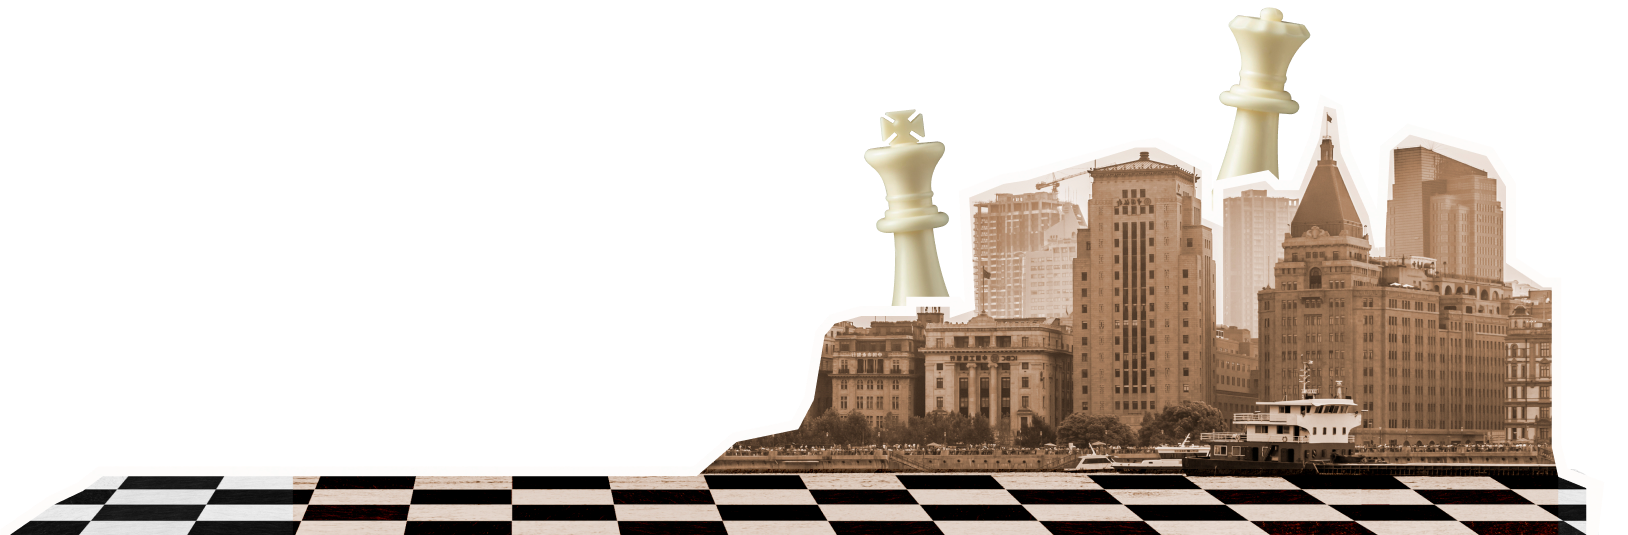
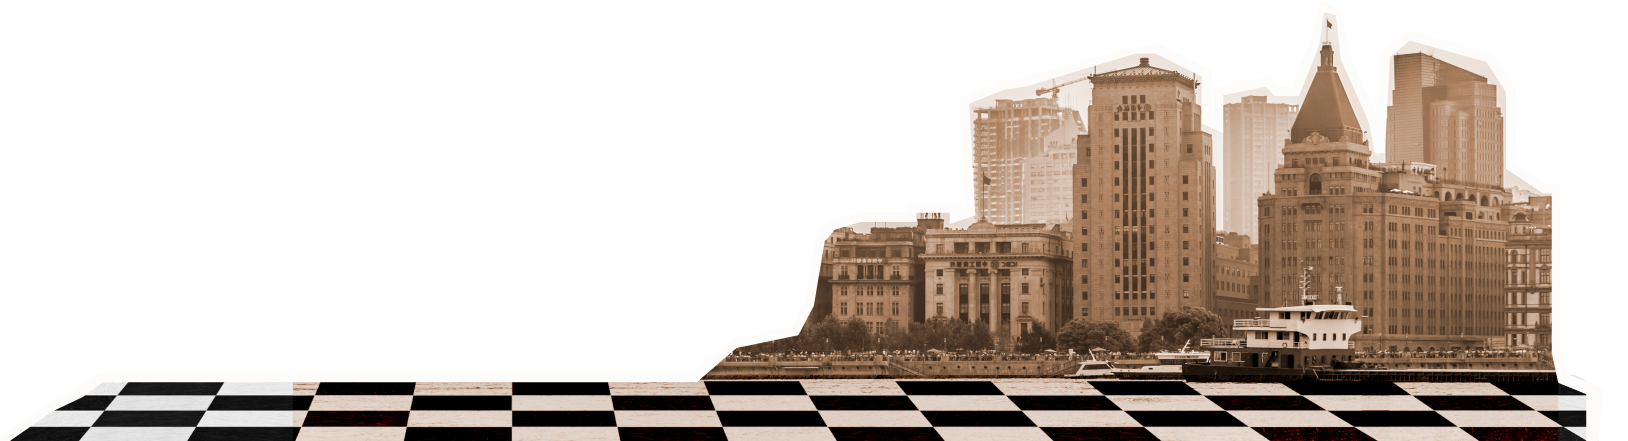
Break bg into more images and animate king and queen

Changed region(s): [[0.0, 0.0, 0.9828, 1.0]]

diff --git a/styles.css b/styles.css
@@ -28,7 +28,7 @@ h1 {
 
 .section-1 .sun {
   position: absolute;
-  z-index: 1;
+  z-index: 0;
   top: -64px;
   left: 50%;
   animation: rotation 50s infinite linear;
@@ -48,6 +48,40 @@ h1 {
   bottom: 0;
   left: 50%;
   transform: translateX(calc(-50% + 398px));
+}
+
+.section-1 .king {
+  z-index: 1;
+  position: absolute;
+  bottom: 164px;
+  left: 50%;
+  transform: translateX(calc(-50% + 112px));
+  animation: tilt-shaking 15s infinite linear;
+}
+
+@keyframes tilt-shaking {
+  0% { transform: translateX(calc(-50% + 112px)) rotate(10deg); }
+  25% { transform: translateX(calc(-50% + 112px)) rotate(0deg); }
+  50% { transform: translateX(calc(-50% + 112px)) rotate(-10deg); }
+  75% { transform: translateX(calc(-50% + 112px)) rotate(0deg); }
+  100% { transform: translateX(calc(-50% + 112px)) rotate(10deg); }
+}
+
+.section-1 .queen {
+  z-index: 1;
+  position: absolute;
+  bottom: 269px;
+  left: 50%;
+  transform: translateX(calc(-50% + 452px));
+  animation: tilt-shaking2 15s infinite linear;
+}
+
+@keyframes tilt-shaking2 {
+  0% { transform: translateX(calc(-50% + 452px)) rotate(0deg); }
+  25% { transform: translateX(calc(-50% + 452px)) rotate(10deg); }
+  50% { transform: translateX(calc(-50% + 452px)) rotate(0deg); }
+  75% { transform: translateX(calc(-50% + 452px)) rotate(-10deg); }
+  100% { transform: translateX(calc(-50% + 452px)) rotate(0deg); }
 }
 
 .section-1 .texture {
@@ -420,11 +454,11 @@ h1 {
 }
 
 .section-5 .content-container {
-  padding: 99px 72px;
+  padding: 98px 72px;
 }
 
 .section-5 {
-  padding-bottom: 41px;
+  padding-bottom: 42px;
 }
 
 .section-5 h2 {
@@ -566,8 +600,7 @@ footer {
 
 @media (max-width: 1224px) {
   .section-1 {
-    background-position-x: center;
-    background-size: 1500px;
+    height: 774px;
   }
 
   .section-1 h1 {
@@ -578,8 +611,14 @@ footer {
     transform: translateX(0);
     width: 375px;
   }
+
   .section-1 logo {
     left: 500px;
+  }
+
+  .section-1 .city {
+    width: 900px;
+    left: 20px;
   }
   
 }

diff --git a/index.html b/index.html
@@ -15,6 +15,8 @@
         src="./Assets/knight-pawn.png"
         alt="Knight and a pawn"
       />
+      <img class="king" src="./Assets/king.png" alt="King piece" />
+      <img class="queen" src="./Assets/queen.png" alt="Queen piece" />
       <img class="sun" src="./Assets/sun.png" alt="Big sun" />
       <div class="text-container">
         <a class="section-1-logo" href="/">
